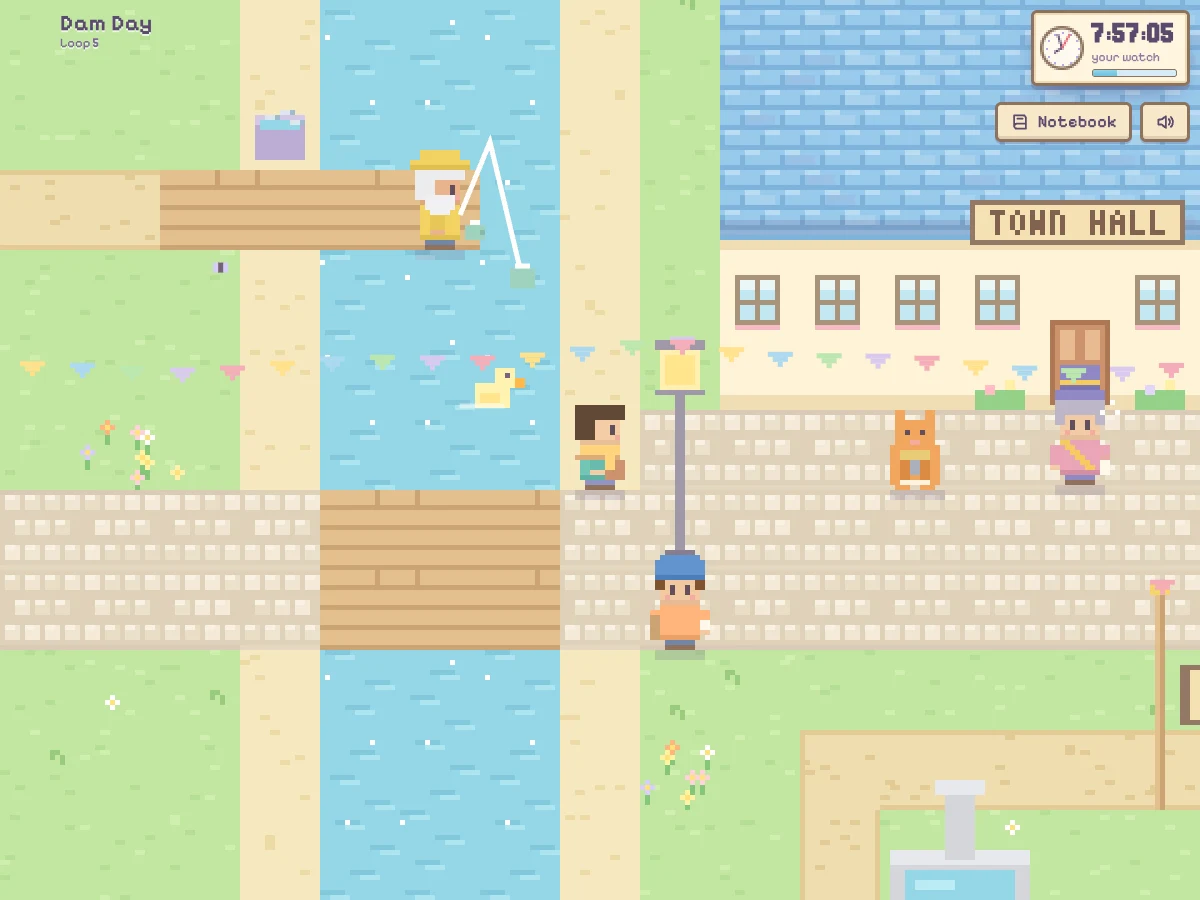
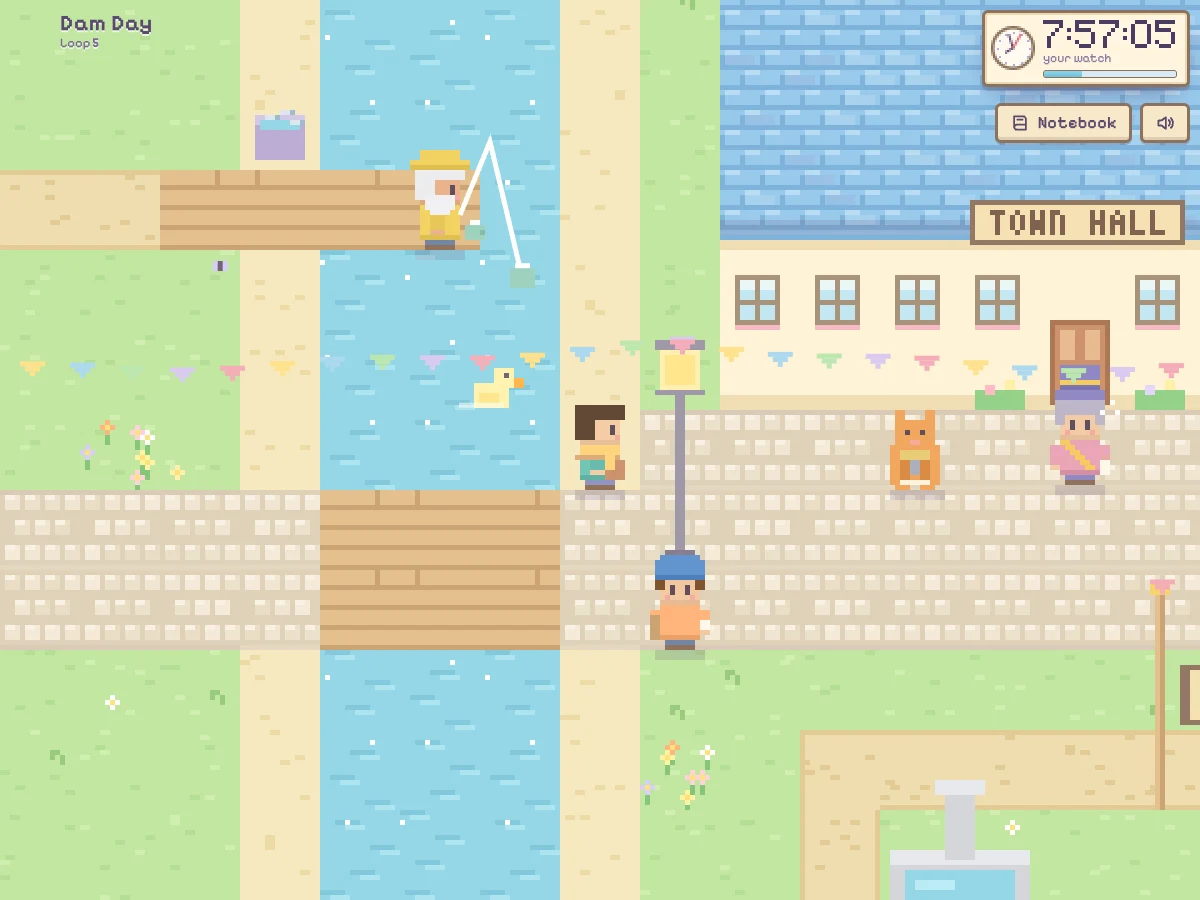
Dam Day: a bigger, blockier clock you can read at a glance
The corner clock's digits are now drawn from a chunky 5x7 bitmap font of their
own, at 4x (3x on a phone), in dark ink, turning red for the last minute. The
thin web font it used before was hard to read, especially its 5.

Changed region(s): [[0.8017, 0.0, 0.9867, 0.1867]]

diff --git a/damday/index.html b/damday/index.html
@@ -37,12 +37,12 @@
   #name span { display: block; font-size: 13px; color: #7a6a94; }
   #corner { position: fixed; top: max(10px, env(safe-area-inset-top)); right: max(10px, env(safe-area-inset-right)); display: flex; flex-direction: column; align-items: flex-end; gap: 8px; z-index: 6; }
   #plaque { display: flex; align-items: center; gap: 8px; padding: 6px 12px 6px 6px; pointer-events: none; }
-  #plaque canvas { width: 44px; height: 44px; image-rendering: pixelated; flex: none; }
-  #digits { font-size: 28px; line-height: 28px; font-weight: 700; color: var(--ink); font-variant-numeric: tabular-nums; letter-spacing: .02em; }
+  #plaque canvas#face { width: 44px; height: 44px; image-rendering: pixelated; flex: none; }
+  #digits { display: block; width: calc(33px * var(--ds, 4)); height: calc(7px * var(--ds, 4)); image-rendering: pixelated; margin: 1px 0 2px; }
   #sub { font-size: 12px; color: var(--ink2); display: flex; gap: 6px; align-items: center; margin-top: 2px; }
   #level { width: 100%; height: 6px; background: #d7ecf7; border: 1px solid var(--edge); border-radius: 3px; overflow: hidden; margin-top: 3px; }
   #level i { display: block; height: 100%; width: 0; background: linear-gradient(#8fd6ea, #6fc0dd); }
-  #plaque.alarm { animation: alarm .9s infinite; } #plaque.alarm #digits { color: var(--warn); }
+  #plaque.alarm { animation: alarm .9s infinite; }
   @keyframes alarm { 50% { box-shadow: inset 0 0 0 2px var(--paper3), 0 0 0 4px rgba(224, 96, 106, .45), 0 12px 28px -12px rgba(60, 40, 90, .55); } }
   #bag { display: flex; gap: 6px; flex-wrap: wrap; justify-content: flex-end; pointer-events: none; }
   .chip { display: inline-flex; align-items: center; gap: 6px; padding: 4px 10px 4px 6px; font-size: 14px; background: var(--paper); border: 2px solid var(--edge); border-radius: 14px; box-shadow: 0 2px 0 rgba(90, 70, 110, .25); animation: pop .35s; }
@@ -132,7 +132,7 @@
   #cbox .ticket b { color: #b8654f; }
 
   @media (max-width: 520px) {
-    #digits { font-size: 24px; line-height: 24px; } #plaque canvas { width: 36px; height: 36px; }
+    #plaque { --ds: 3; } #plaque canvas#face { width: 36px; height: 36px; }
     #name b { font-size: 18px; line-height: 18px; } #said { font-size: 17px; }
     #talk { padding: 12px 12px 10px; } #asks .btn { font-size: 15px; }
     #cbox { padding: 18px 16px; } #cbox h2 { font-size: 23px; }
@@ -146,7 +146,7 @@
 <div id="name"><b>Dam Day</b><span id="loopn">Loop 1</span></div>
 <div id="corner">
   <div id="plaque" class="paper"><canvas id="face" width="22" height="22"></canvas>
-    <div><div id="digits">7:56:00</div><div id="sub"><span>your watch</span></div><div id="level"><i></i></div></div></div>
+    <div><canvas id="digits" width="33" height="7" role="img" aria-label="7:56:00"></canvas><div id="sub"><span>your watch</span></div><div id="level"><i></i></div></div></div>
   <div id="bag" aria-live="polite"></div>
   <div id="tools">
     <button class="btn" id="bnote" aria-label="Notebook (N)" title="Notebook (N)"><svg viewBox="0 0 24 24" fill="none" stroke="currentColor" stroke-width="2.2" stroke-linecap="round" stroke-linejoin="round"><path d="M5 4h11a3 3 0 0 1 3 3v13H8a3 3 0 0 1-3-3z"/><path d="M5 17a3 3 0 0 1 3-3h11"/><path d="M9 8h6"/></svg><span class="lbl">Notebook</span><i class="dot" hidden></i></button>

diff --git a/damday/main.js b/damday/main.js
@@ -60,11 +60,22 @@ function drawFace(t) {
   const hand = (v, len, col) => { c.strokeStyle = col; c.lineWidth = 1; c.beginPath(); c.moveTo(11, 11); c.lineTo(11 + Math.cos(a(v)) * len, 11 + Math.sin(a(v)) * len); c.stroke(); };
   hand(h / 12, 4.5, '#5a4a6e'); hand(m / 60, 7, '#5a4a6e'); hand(((secs) % 60) / 60, 8, '#e0606a');
 }
+// The clock's digits are drawn from a chunky 5x7 bitmap font of their own, big and square, so they read at a glance
+const GLYPH = { '0': ['01110', '10001', '10001', '10001', '10001', '10001', '01110'], '1': ['00100', '01100', '00100', '00100', '00100', '00100', '01110'], '2': ['01110', '10001', '00001', '00010', '00100', '01000', '11111'],
+  '3': ['11110', '00001', '00001', '01110', '00001', '00001', '11110'], '4': ['00010', '00110', '01010', '10010', '11111', '00010', '00010'], '5': ['11111', '10000', '11110', '00001', '00001', '10001', '01110'],
+  '6': ['00110', '01000', '10000', '11110', '10001', '10001', '01110'], '7': ['11111', '00001', '00010', '00100', '01000', '01000', '01000'], '8': ['01110', '10001', '10001', '01110', '10001', '10001', '01110'],
+  '9': ['01110', '10001', '10001', '01111', '00001', '00010', '01110'], ':': ['0', '0', '1', '0', '1', '0', '0'] };
+const digitsEl = $('digits'), digitsCtx = digitsEl.getContext('2d');
+function drawDigits(text, alarm) {
+  const c = digitsCtx; c.clearRect(0, 0, 33, 7); c.fillStyle = alarm ? '#d84a58' : '#4a3d62'; let x = 0;
+  for (const ch of text) { const g = GLYPH[ch]; if (!g) continue; for (let y = 0; y < 7; y++) for (let i = 0; i < g[y].length; i++) if (g[y][i] === '1') c.fillRect(x + i, y, 1, 1); x += g[0].length + 1; }
+  digitsEl.setAttribute('aria-label', text);
+}
 let lastDigits = '';
 function hud() {
-  const s = clockText(g.t); if (s !== lastDigits) { lastDigits = s; $('digits').textContent = s; drawFace(g.t); }
+  const alarm = g.t >= 195 && !g.ended, s = clockText(g.t) + (alarm ? '!' : ''); if (s !== lastDigits) { lastDigits = s; drawDigits(clockText(g.t), alarm); drawFace(g.t); }
   $('level').firstElementChild.style.width = clamp(g.t / BREAK * 100, 0, 100) + '%';
-  $('plaque').classList.toggle('alarm', g.t >= 195 && !g.ended);
+  $('plaque').classList.toggle('alarm', alarm);
   $('loopn').textContent = 'Loop ' + (g.store.loops + (g.ended ? 0 : 1));
   const ready = !g.talk && !g.ended && g.nearby().length > 0; $('abtn').classList.toggle('ready', ready);
 }
